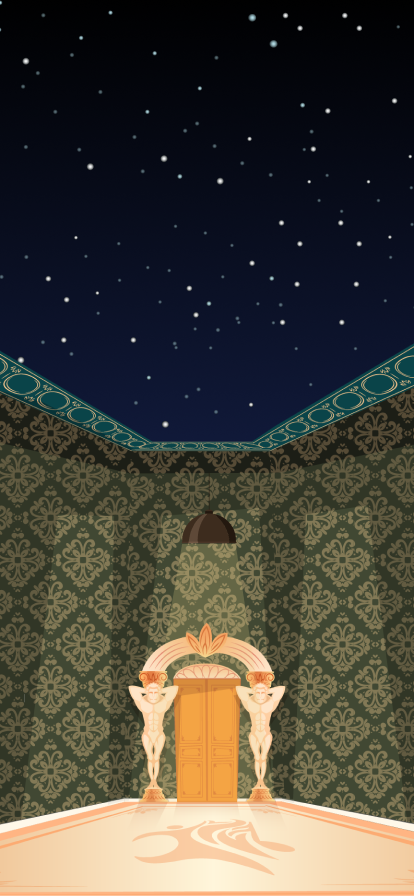
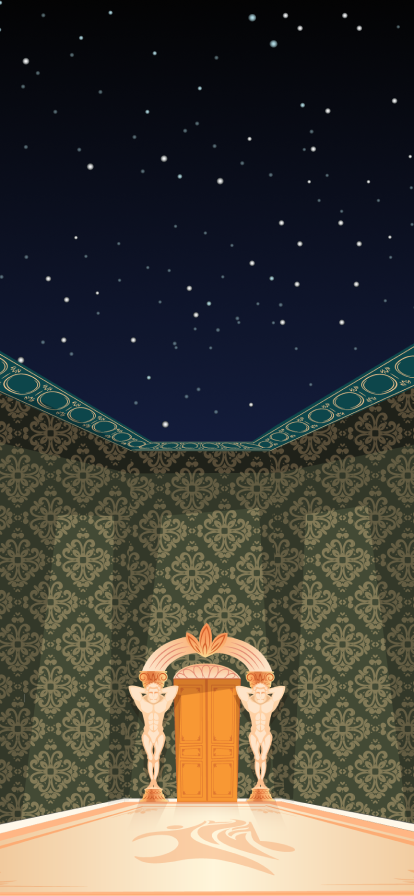
minor size errors

Changed region(s): [[0.3478, 0.5625, 0.6087, 0.9062], [0.5507, 0.75, 0.6667, 0.9062]]

diff --git a/stylesheets/landing.css b/stylesheets/landing.css
@@ -221,6 +221,7 @@ transform: translateY(4px);
             background: url(../assets/mobile/mobileWall.png) no-repeat;
             background-size: 100% 100%;
             height: 100vh;
+            /* width: 100vw; */
       }
       /* .main-wrapper-links {
             display: none;
@@ -256,12 +257,12 @@ transform: translateY(4px);
       .left-paintings {
             flex-direction: column-reverse;
             justify-content: space-between;
-            height: 255px;
+            /* height: 255px; */
       }
       .right-paintings {
             flex-direction: column;
             justify-content: space-between;
-            height: 255px;
+            /* height: 255px; */
       
       }
       .main-wrapper-links {

diff --git a/stylesheets/video.css b/stylesheets/video.css
@@ -133,7 +133,7 @@ align-items: center;
 }
 .lamp{
     position: absolute;
-    width: 110px;
+    width: 8%;
     margin-bottom: 30px;
     top: 40px;
 }
@@ -153,12 +153,12 @@ height: 400px;
     display:flex;
     flex-direction: column;
     align-items: center;
-    justify-content: center;
+    justify-content: flex-end;
 }
 
 .statue-img{
     width: 200px;
-    margin-bottom: -154%;
+    margin-bottom: -24%;
 }
 .podium{
     display: flex;
